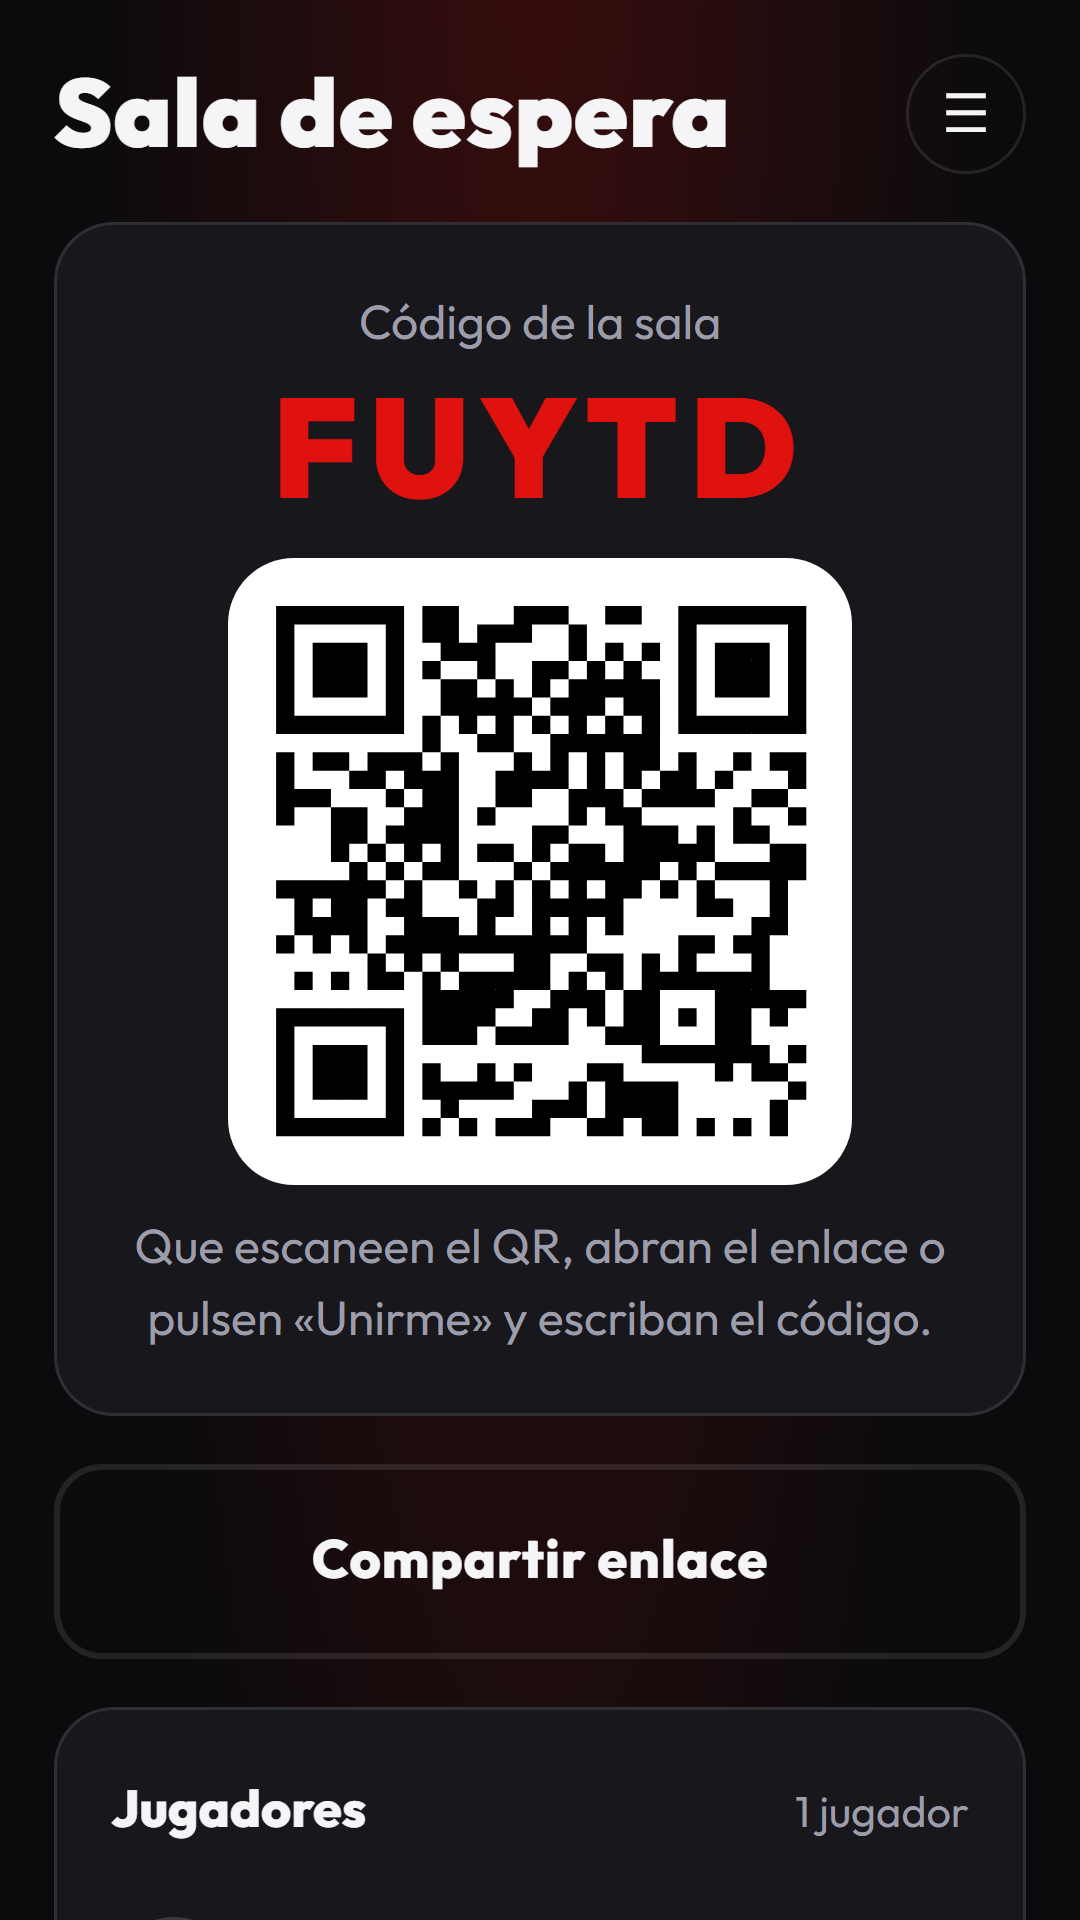
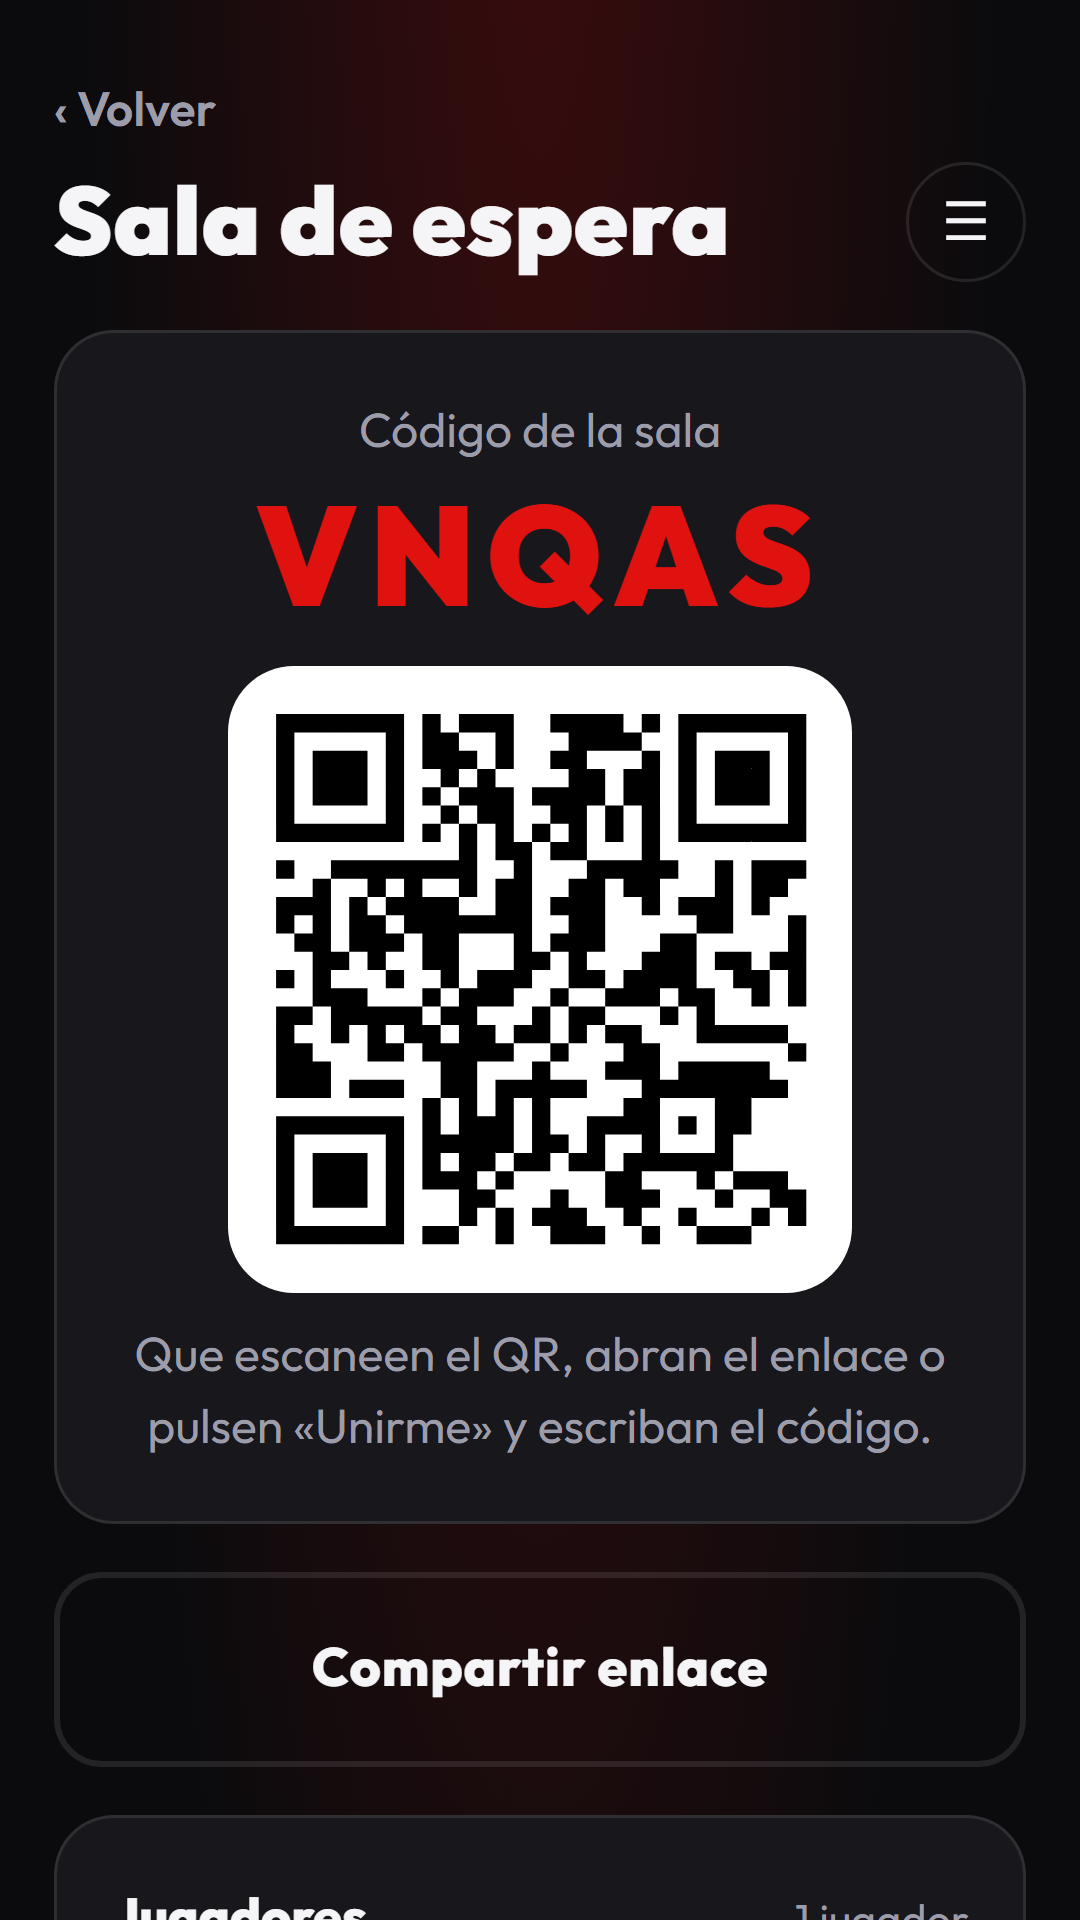
Sala de espera con '‹ Volver' y confirmación; audioSession.type (ambient / play-and-record) con registro AUDIO tipo=

diff --git a/index.html b/index.html
@@ -503,6 +503,7 @@ body.wk-compact .wrap.game{padding-bottom:calc(min(52vh,400px) + 24px)}
   </section>
 
   <section class="screen" id="s-lobby">
+    <button class="back" id="lbBack">‹ Volver</button>
     <div class="gtop"><h2>Sala de espera</h2><button class="menubtn" id="lobbyMenu" aria-label="Menú">☰</button></div>
     <div class="panel codebox">
       <p style="margin:0 0 4px">Código de la sala</p>
@@ -520,6 +521,7 @@ body.wk-compact .wrap.game{padding-bottom:calc(min(52vh,400px) + 24px)}
   </section>
 
   <section class="screen" id="s-wait">
+    <button class="back" id="wtBack">‹ Volver</button>
     <div class="gtop"><h2>Entrarás en la siguiente ronda</h2><button class="menubtn" id="waitMenu" aria-label="Menú">☰</button></div>
     <p class="hint-line" id="wtMsg"></p>
   </section>
@@ -3135,8 +3137,6 @@ function vibraNativa(H,p,fuerte){
     t+=ms;
   });
 }
-/* Sesión de audio nativa: .ambient (los sonidos respetan el interruptor de silencio) y .playAndRecord mientras el walkie está abierto */
-const audioModo=m=>{try{const A=EN_APP&&window.Capacitor.Plugins&&window.Capacitor.Plugins.AudioSesion;if(A)Promise.resolve(A.modo({modo:m})).catch(()=>{})}catch(e){}};
 const VIB_INI=[80,60,80],VIB_VOTO=[50,40,50]; /* partida lista / votación abierta: iguales para todos */
 const vibra=(p,fuerte)=>{if(!SETTINGS.vibra)return;try{const H=hapticos();if(H)vibraNativa(H,p,fuerte);else if(!EN_APP&&navigator.vibrate)navigator.vibrate(p)}catch(e){}};
 
@@ -3201,6 +3201,20 @@ document.addEventListener('pointerdown',()=>SND.unlock(),{once:true});
    En la app la página va en capacitor://localhost: lo que se comparta o abra fuera (enlaces de sala, correos de Supabase) tiene que llevar a la web pública,
    y las páginas externas (privacidad, términos, soporte…) se abren con @capacitor/browser y su URL absoluta (atributo data-ext). */
 const EN_APP=!!(window.Capacitor&&window.Capacitor.isNativePlatform&&window.Capacitor.isNativePlatform());
+/* Sesión de audio. Los efectos son <audio> (WAV generados al vuelo) y el walkie usa Web Audio: WKWebView pisa la categoría nativa, así que se
+   fija también con navigator.audioSession.type (iOS 16.4+): 'ambient' (respeta el silencio) y 'play-and-record' solo con el walkie abierto.
+   La categoría nativa (plugin AudioSesion) queda de respaldo. El console.log es temporal, para comprobarlo en Xcode. */
+let audioTipo='';
+function audioModo(m){
+  const t=m==='walkie'?'play-and-record':'ambient';
+  try{
+    if(!EN_APP)return;
+    if(navigator.audioSession&&navigator.audioSession.type!==t)navigator.audioSession.type=t;
+    if(audioTipo!==t){audioTipo=t;console.log('AUDIO tipo='+(navigator.audioSession?navigator.audioSession.type:'no disponible (solo nativo)')+' (pedido '+t+')')}
+  }catch(e){console.log('AUDIO tipo error '+e)}
+  try{const A=window.Capacitor.Plugins&&window.Capacitor.Plugins.AudioSesion;if(A)Promise.resolve(A.modo({modo:m})).catch(()=>{})}catch(e){}
+}
+audioModo('ambient');
 /* En la app el WebView se sirve desde capacitor://localhost: sin el !EN_APP, localhost valdría también ahí y los parámetros de pruebas (?sblib, ?grace) tendrían efecto */
 const EN_LOCAL=!EN_APP&&/^(localhost|127\.0\.0\.1)$/.test(location.hostname);
 const WEB_BASE='https://puntostudio.es/punto-falso/';
@@ -4002,6 +4016,18 @@ async function shareRoom(){
   try{if(navigator.share){await navigator.share({title:'Punto Falso',text:`Entra en mi sala de Punto Falso (código ${ROOM.code}):`,url});return}}catch(e){if(e&&e.name==='AbortError')return}
   try{await navigator.clipboard.writeText(url);toast('Enlace copiado')}catch(e){toast('No se pudo copiar. Que escaneen el QR.')}
 }
+/* «‹ Volver» en la sala de espera: pide confirmación. Al salir, la sala sigue sin ti: si eras el anfitrión, otro jugador conectado lo pasa a ser
+   (takeover por presencia) y, si no queda nadie, la sala deja de existir. */
+function salirSalaSheet(){
+  if(!ROOM)return;
+  const otros=connectedList(NET.R||{}).filter(e=>e.p!==PID).length;
+  const nota=iAmHost()?(otros>0?'Como eres el anfitrión, otro jugador pasará a serlo.':'Eres el único en la sala: se cerrará.'):'Podrás volver a entrar con el código de la sala.';
+  sheet(`<h3>¿Salir de la sala?</h3><p>${nota}</p><button class="act" id="slYes">Salir</button><button class="link" id="slNo">Quedarme</button>`,()=>{
+    $('slNo').onclick=closeSheet;
+    $('slYes').onclick=()=>{closeSheet();if(ROOM)dropRoom();phHtml='';show('s-home')};
+  });
+}
+$('lbBack').onclick=salirSalaSheet;$('wtBack').onclick=salirSalaSheet;
 function renderWait(){
   if(!ROOM||!$('s-wait').classList.contains('on'))return;
   const acc=S&&S.acc.some(p=>p.p===PID);

diff --git a/tests/walkie-audio.spec.js b/tests/walkie-audio.spec.js
@@ -52,3 +52,53 @@ test.describe('Sesión de audio de la app', () => {
     expect(await page.evaluate(() => window.__audio)).toEqual(['walkie', 'ambient']);
   });
 });
+
+test.describe('audioSession del WebView', () => {
+  test('ambient al iniciar, play-and-record solo con el walkie abierto y ambient al cerrarlo (con registro AUDIO tipo=)', async ({ page }) => {
+    const logs = [];
+    page.on('console', (m) => { if (m.text().startsWith('AUDIO tipo=')) logs.push(m.text()); });
+    await page.addInitScript(() => {
+      window.Capacitor = { isNativePlatform: () => true, Plugins: {} };
+      Object.defineProperty(navigator, 'audioSession', { value: { type: 'auto' }, configurable: true });
+    });
+    await page.goto('/');
+    expect(await page.evaluate(() => navigator.audioSession.type)).toBe('ambient');
+    await page.evaluate(() => { ROOM = { code: 'ABCDE', name: 'Ana', creator: true, remote: true, joined: Date.now() }; WK.abrir(); });
+    expect(await page.evaluate(() => navigator.audioSession.type)).toBe('play-and-record');
+    await page.evaluate(() => WK.cerrar());
+    expect(await page.evaluate(() => navigator.audioSession.type)).toBe('ambient');
+    expect(logs.map((l) => l.split(' ')[1])).toEqual(['tipo=ambient', 'tipo=play-and-record', 'tipo=ambient'].map((x) => x));
+  });
+
+  test('en la web no se toca audioSession', async ({ page }) => {
+    await page.addInitScript(() => { Object.defineProperty(navigator, 'audioSession', { value: { type: 'auto' }, configurable: true }); });
+    await page.goto('/');
+    expect(await page.evaluate(() => navigator.audioSession.type)).toBe('auto');
+  });
+});
+
+test.describe('Sala de espera: «‹ Volver»', () => {
+  test('pide confirmación; «Quedarme» no sale y «Salir» vuelve a la portada y suelta la sala', async ({ page }) => {
+    await page.goto('/');
+    await page.evaluate(() => { ROOM = { code: 'ABCDE', name: 'Ana', creator: true, remote: false, joined: Date.now() }; S = { host: PID, ph: 'lobby', pl: [], acc: [], pend: [], ban: [] }; show('s-lobby'); });
+    await expect(page.locator('#lbBack')).toBeVisible();
+    await page.click('#lbBack');
+    await expect(page.locator('#sheet h3')).toHaveText('¿Salir de la sala?');
+    await expect(page.locator('#sheet p')).toContainText('único en la sala');
+    await page.click('#slNo');
+    await expect(page.locator('#s-lobby')).toHaveClass(/on/);
+    await page.click('#lbBack');
+    await page.click('#slYes');
+    await expect(page.locator('#s-home')).toHaveClass(/on/);
+    expect(await page.evaluate(() => ROOM)).toBeNull();
+  });
+
+  test('también en la pantalla de espera de quien llega con la partida empezada', async ({ page }) => {
+    await page.goto('/');
+    await page.evaluate(() => { ROOM = { code: 'ABCDE', name: 'Ana', creator: false, remote: false, joined: Date.now() }; show('s-wait'); });
+    await page.click('#wtBack');
+    await expect(page.locator('#sheet p')).toContainText('volver a entrar');
+    await page.click('#slYes');
+    await expect(page.locator('#s-home')).toHaveClass(/on/);
+  });
+});

diff --git a/beta/index.html b/beta/index.html
@@ -491,6 +491,7 @@ body.wk-compact .wrap.game{padding-bottom:calc(min(52vh,400px) + 24px)}
   </section>
 
   <section class="screen" id="s-lobby">
+    <button class="back" id="lbBack">‹ Volver</button>
     <div class="gtop"><h2>Sala de espera</h2><button class="menubtn" id="lobbyMenu" aria-label="Menú">☰</button></div>
     <div class="panel codebox">
       <p style="margin:0 0 4px">Código de la sala</p>
@@ -508,6 +509,7 @@ body.wk-compact .wrap.game{padding-bottom:calc(min(52vh,400px) + 24px)}
   </section>
 
   <section class="screen" id="s-wait">
+    <button class="back" id="wtBack">‹ Volver</button>
     <div class="gtop"><h2>Entrarás en la siguiente ronda</h2><button class="menubtn" id="waitMenu" aria-label="Menú">☰</button></div>
     <p class="hint-line" id="wtMsg"></p>
   </section>
@@ -3918,6 +3920,18 @@ async function shareRoom(){
   try{if(navigator.share){await navigator.share({title:'Punto Falso',text:`Entra en mi sala de Punto Falso (código ${ROOM.code}):`,url});return}}catch(e){if(e&&e.name==='AbortError')return}
   try{await navigator.clipboard.writeText(url);toast('Enlace copiado')}catch(e){toast('No se pudo copiar. Que escaneen el QR.')}
 }
+/* «‹ Volver» en la sala de espera: pide confirmación. Al salir, la sala sigue sin ti: si eras el anfitrión, otro jugador conectado lo pasa a ser
+   (takeover por presencia) y, si no queda nadie, la sala deja de existir. */
+function salirSalaSheet(){
+  if(!ROOM)return;
+  const otros=connectedList(NET.R||{}).filter(e=>e.p!==PID).length;
+  const nota=iAmHost()?(otros>0?'Como eres el anfitrión, otro jugador pasará a serlo.':'Eres el único en la sala: se cerrará.'):'Podrás volver a entrar con el código de la sala.';
+  sheet(`<h3>¿Salir de la sala?</h3><p>${nota}</p><button class="act" id="slYes">Salir</button><button class="link" id="slNo">Quedarme</button>`,()=>{
+    $('slNo').onclick=closeSheet;
+    $('slYes').onclick=()=>{closeSheet();if(ROOM)dropRoom();phHtml='';show('s-home')};
+  });
+}
+$('lbBack').onclick=salirSalaSheet;$('wtBack').onclick=salirSalaSheet;
 function renderWait(){
   if(!ROOM||!$('s-wait').classList.contains('on'))return;
   const acc=S&&S.acc.some(p=>p.p===PID);

diff --git a/docs/APP_IOS.md b/docs/APP_IOS.md
@@ -32,3 +32,4 @@ En Supabase → Providers → Apple, el Bundle ID de Falso debe estar en *Client
 - `AudioSesion.swift`: sesión de audio nativa. Al arrancar (`AppDelegate`) queda en `AVAudioSession.Category.ambient`: los sonidos del juego se silencian solos con el iPhone en modo silencio (no se detecta el interruptor). La vibración no depende de esto.
 - Plugin local `AudioSesion` (registrado en `PuntoViewController`, que usa `SceneDelegate` en vez de `CAPBridgeViewController`). La web lo llama con `audioModo('walkie' | 'ambient')`: `WK.abrir()` → `playAndRecord` (`defaultToSpeaker`, `allowBluetooth`, `mixWithOthers`) y `WK.cerrar()` → `ambient`. Se reaplica tras interrupciones y reinicios del audio del sistema.
 - Cada cambio escribe en la consola de Xcode `AUDIO sesión … ok (categoría real: …)`.
+- Además de la categoría nativa (respaldo), `audioModo()` fija `navigator.audioSession.type` (iOS 16.4+): `ambient` al iniciar y al cerrar el walkie, `play-and-record` solo con el walkie abierto. Registro temporal en consola: `AUDIO tipo=…`. Los efectos son `<audio>` (WAV generados con OfflineAudioContext); el walkie usa Web Audio en directo.
